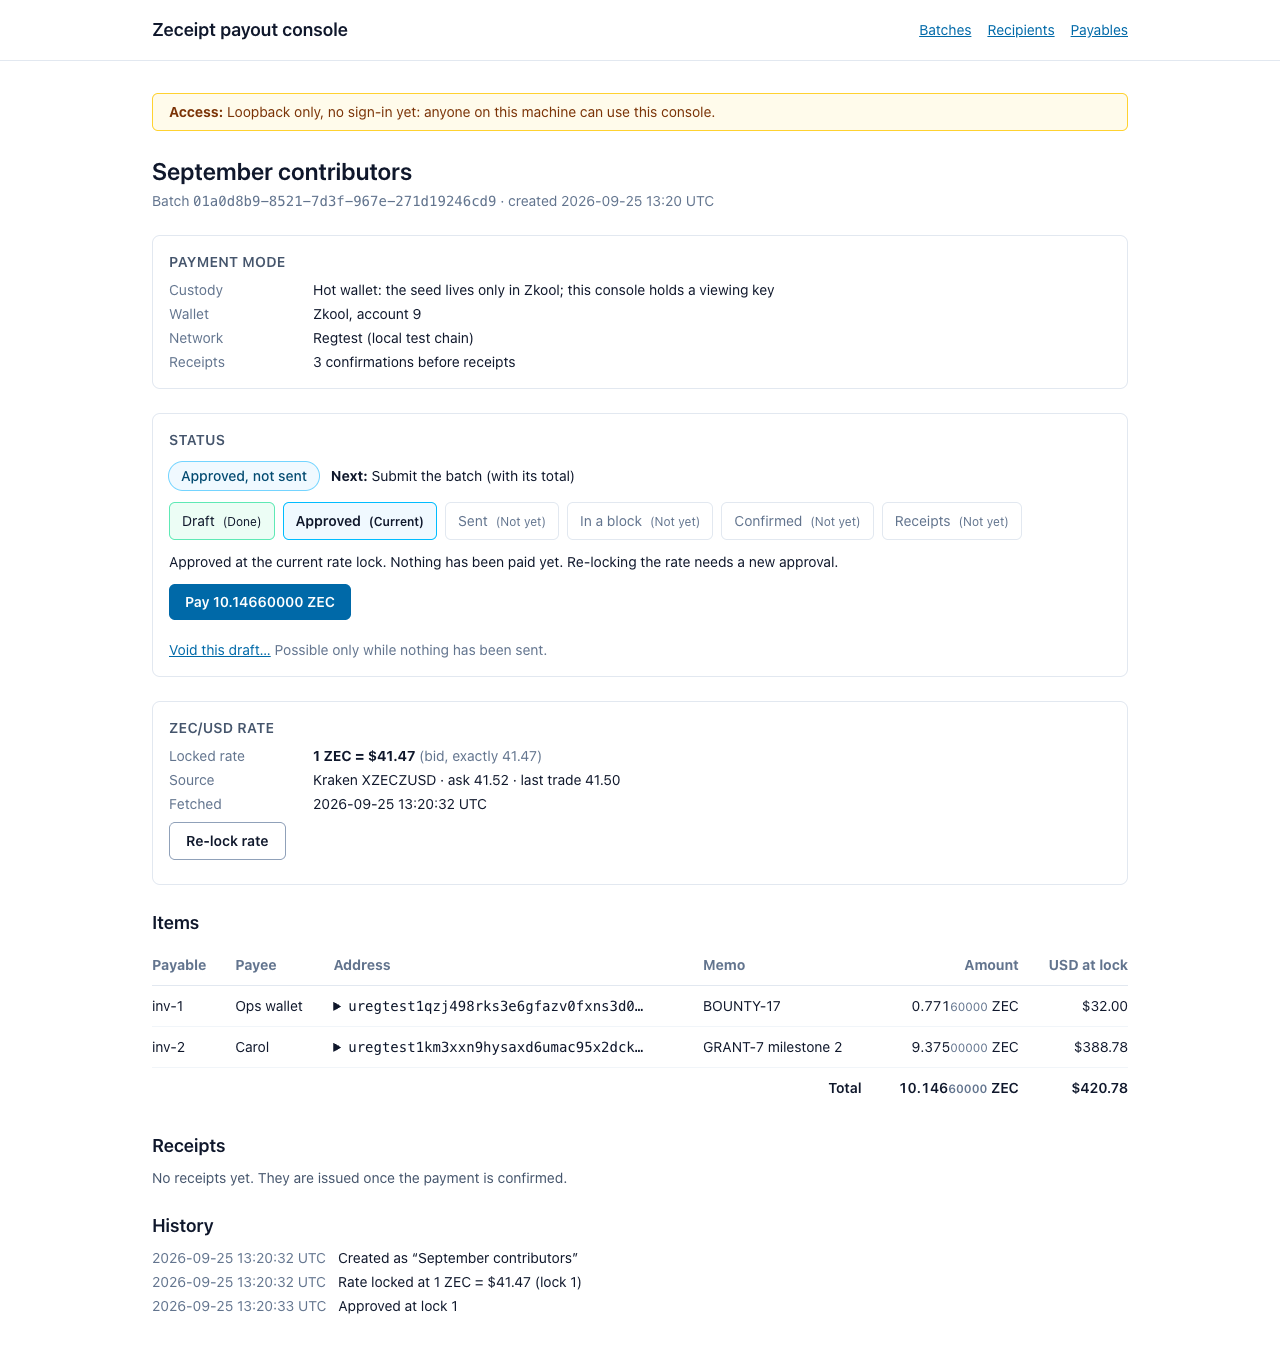
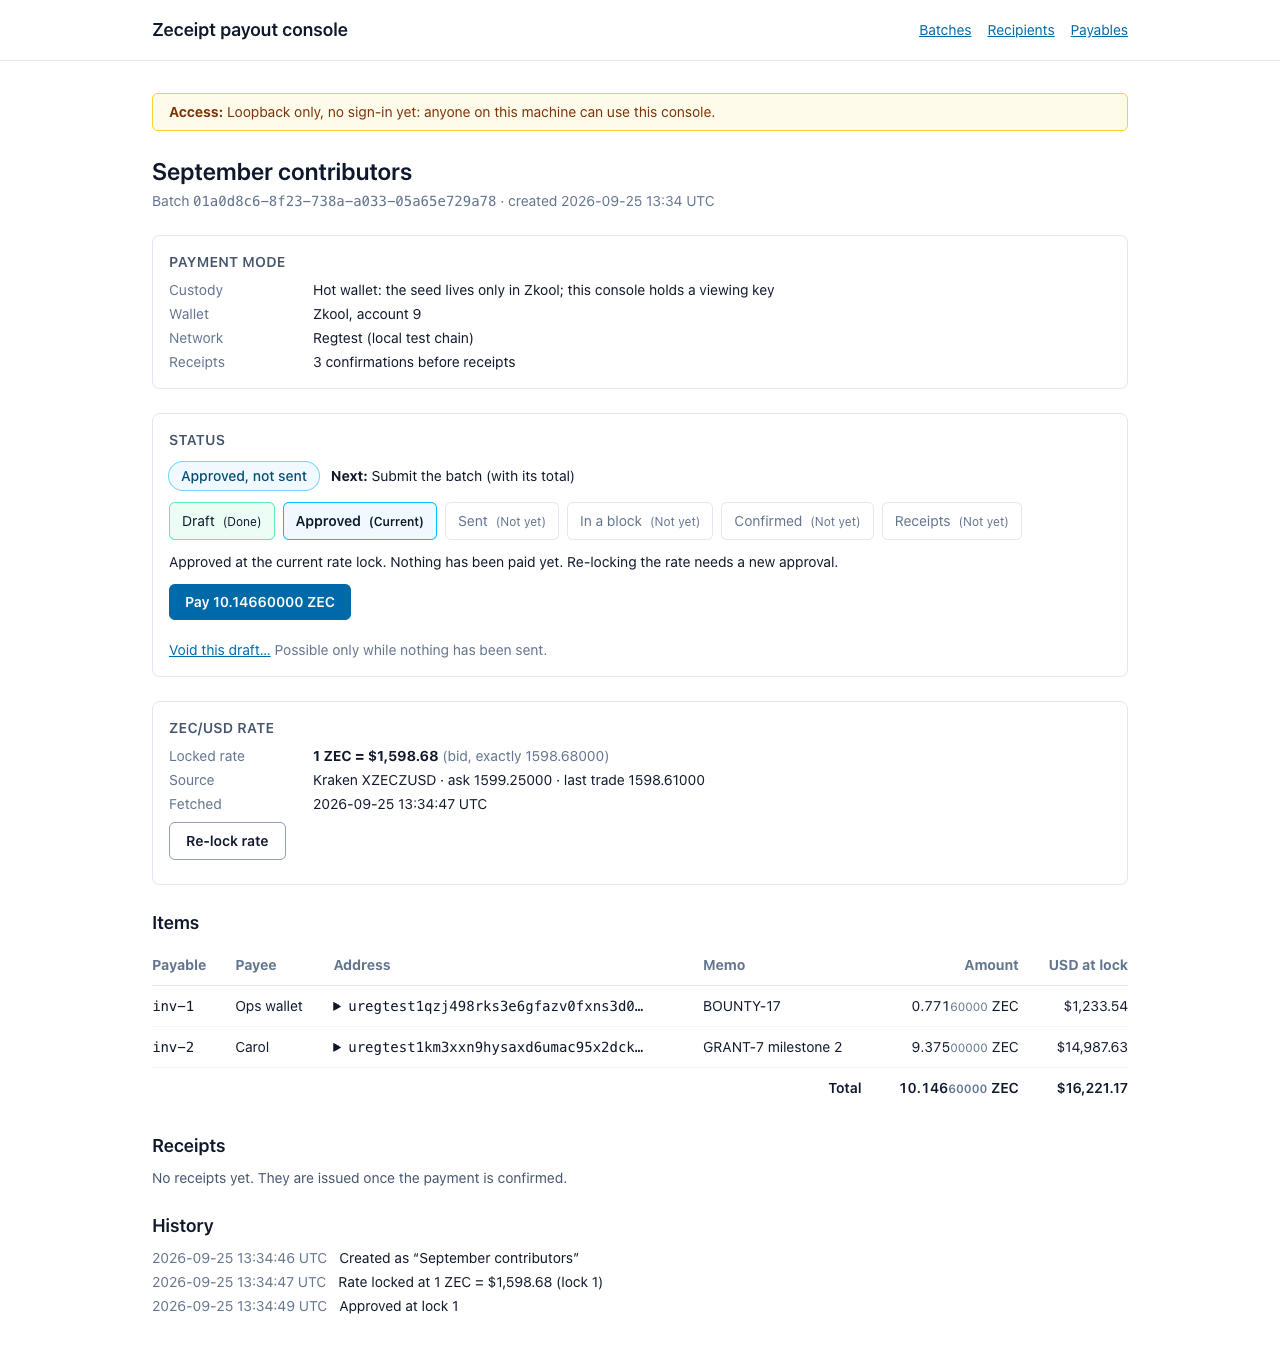
L2 round 2: English Chrome via CDP (-AppleLanguages), Kraken's live rate in the footage and every screenshot (no made-up rate shown as Kraken's); M1b closed (100/100)

diff --git a/apps/console/test/shots/demo-video.ts b/apps/console/test/shots/demo-video.ts
@@ -15,12 +15,12 @@
 
 import assert from "node:assert/strict";
 import { randomBytes } from "node:crypto";
-import http from "node:http";
 import { mkdirSync, mkdtempSync, readdirSync, renameSync, rmSync, statSync, writeFileSync } from "node:fs";
 import { tmpdir } from "node:os";
 import { join, resolve } from "node:path";
 import { APP, baseEnv, raw, start, waitHealthy, within } from "../helpers/app-server.ts";
 import { serveStatic } from "../helpers/static-site.ts";
+import { englishChrome } from "../helpers/english-chrome.ts";
 
 if (process.env.ZECEIPT_REGTEST !== "1") {
   console.log("demo footage needs the live regtest chain: set ZECEIPT_REGTEST=1 (docs/REGTEST_RUNBOOK.md)");
@@ -34,7 +34,6 @@ const ZAINO = process.env.ENDPOINT ?? "http://127.0.0.1:8137";
 const ZEBRA_RPC = process.env.ZEBRA_RPC ?? "http://127.0.0.1:18232/";
 const ISSUER = Number(process.env.ZKOOL_ISSUER ?? 9);
 const BIN = process.env.ZECEIPT_BIN ?? join(ROOT, "target/release/zeceipt");
-const RATE = "41.47"; // a fixed demo rate, labelled as such in shots.json
 const SIZE = { width: 1280, height: 800 };
 const HOLD = 1500; // ms after each visible change, so a viewer can read it
 const KEY = 3000; // ms on the beats the pitch narrates (approval, payment, VALID, INVALID)
@@ -75,18 +74,19 @@ for (const [i, [name, reference, usdCents]] of PEOPLE.entries()) {
 const WRAP = randomBytes(32);
 const dir = mkdtempSync(join(tmpdir(), "zeceipt-demo-"));
 const site = await serveStatic(join(ROOT, "packages/verify"));
-const ticker = http.createServer((_req, res) => void res.writeHead(200, { "content-type": "application/json" }).end(JSON.stringify({ error: [], result: { XZECZUSD: { a: ["41.52", "1", "1"], b: [RATE, "1", "1"], c: ["41.50", "0.1"] } } })));
-await new Promise<void>((r) => ticker.listen(0, "127.0.0.1", r));
 const s = await start({
   ...baseEnv(),
+  // The rate is Kraken's live ZEC/USD bid, the console's default source (review L2 round 1: a made-up rate must never
+  // be shown as Kraken's). Node reaches it through the environment's proxy; local services bypass it.
+  NODE_USE_ENV_PROXY: "1", NO_PROXY: "127.0.0.1,localhost",
   ZECEIPT_CUSTODY_MODE: "hot", ZECEIPT_ZKOOL_URL: ZKOOL, ZECEIPT_ZKOOL_ACCOUNT: String(ISSUER), ZECEIPT_DB_PATH: join(dir, "console.db"),
   ZECEIPT_ORG_ID: "demo", ZECEIPT_NETWORK: "regtest", ZECEIPT_CONFIRMATIONS: "2", ZECEIPT_AUTO_RECEIPTS_SECONDS: "0",
   ZECEIPT_WRAP_KEYS: `k1:${WRAP.toString("base64")}`, ZECEIPT_LIGHTWALLETD_URL: ZAINO, ZECEIPT_BIN: BIN,
   ZECEIPT_UFVK_FILE: join(ROOT, "fixtures/regtest-issuer-ufvk.txt"), ZECEIPT_ISSUER_KEY_FILE: join(ARTIFACT_DIR, "issuer.key"), ZECEIPT_ISSUER_KEY_ID: "2026-09",
-  ZECEIPT_RECEIPT_HOST: site.base, ZECEIPT_RATE_URL: `http://127.0.0.1:${(ticker.address() as { port: number }).port}/0/public/Ticker?pair=ZECUSD`,
+  ZECEIPT_RECEIPT_HOST: site.base,
 });
-const { chromium } = await import("playwright-core");
-const browser = await chromium.launch({ channel: "chrome", headless: true });
+const chrome = await englishChrome();
+const browser = chrome.browser;
 const shots: { segment: string; file: string; steps: { atMs: number; step: string }[] }[] = [];
 const secrets: string[] = [WRAP.toString("base64")];
 
@@ -125,6 +125,7 @@ try {
   }
 
   let batchId = "";
+  let lock = { rate: "", source: "", fetchedAt: "" };
   await segment("console", "1-console.webm", async (page, step) => {
     await page.goto(`${base}/recipients`);
     await page.getByText(PEOPLE[4][0]).first().waitFor();
@@ -140,6 +141,9 @@ try {
     await page.waitForURL(/\/batches\/[0-9a-f-]{36}$/);
     batchId = page.url().split("/").at(-1)!;
     await page.getByRole("button", { name: /^Approve paying/ }).waitFor();
+    lock = (JSON.parse((await raw(s.port, "GET", `/api/batches/${batchId}`, { host: self })).body) as { rateLock: { rate: string; source: string; fetchedAt: string } }).rateLock;
+    assert.equal(lock.source, "kraken");
+    assert.ok(await page.getByText(`Kraken XZECZUSD`).first().isVisible(), "the page names the source the quote came from");
     await step("the batch: converted at the locked rate (fixed for a batch made from payables); approval comes first");
     await page.getByRole("button", { name: /^Approve paying/ }).click();
     await page.getByRole("button", { name: /^Pay / }).waitFor();
@@ -209,7 +213,8 @@ try {
   const index = {
     version: 1,
     stamp,
-    note: `regtest only (a private, consensus-valid chain; PROOF §5). Rate: a fixed demo rate of ${RATE} USD per ZEC. No receipt link, OCK or key is in this file.`,
+    note: "regtest only (a private, consensus-valid chain; PROOF §5). The rate is Kraken's live ZEC/USD bid when the batch was made. No receipt link, OCK or key is in this file.",
+    rate: lock,
     batch: { recipients: recipients.length, txid },
     segments: shots,
   };
@@ -219,10 +224,9 @@ try {
   for (const f of readdirSync(OUT)) console.log(`${f}\t${statSync(join(OUT, f)).size} bytes`);
   console.log(`footage in ${OUT}`);
 } finally {
-  await browser.close();
+  await chrome.close();
   s.child.kill("SIGTERM");
   await within(s.exited, 10_000, "shutdown").catch(() => s.child.kill("SIGKILL"));
   rmSync(dir, { recursive: true, force: true });
   await site.close();
-  ticker.close();
 }

diff --git a/apps/console/test/shots/from-payables.ts b/apps/console/test/shots/from-payables.ts
@@ -1,16 +1,13 @@
 // Screenshot of the "batch from payables" chooser (slice H5b, PRD AC3), re-runnable. Run after `next build` from
 // apps/console: `node test/shots/from-payables.ts [out.png]`. It renders what a person checks by eye: free payables as
 // checkboxes left of their labels, one already in a batch left out, and an error under the title with the choices kept.
-import http from "node:http";
 import { mkdtempSync, rmSync } from "node:fs";
 import { tmpdir } from "node:os";
 import { join } from "node:path";
 import { baseEnv, raw, start, waitHealthy, within } from "../helpers/app-server.ts";
 const OUT = process.argv[2] ?? join(import.meta.dirname, "../../../../docs/product/screenshots/h5b-from-payables.png");
 const dir = mkdtempSync(join(tmpdir(), "h5b-shot-"));
-const ticker = http.createServer((_req, res) => void res.writeHead(200, { "content-type": "application/json" }).end(JSON.stringify({ error: [], result: { XZECZUSD: { a: ["1601.00", "1", "1"], b: ["1600.00", "1", "1"], c: ["1600.00", "0.1"] } } })));
-await new Promise<void>((r) => ticker.listen(0, "127.0.0.1", r));
-const env = { ...baseEnv(), ZECEIPT_CUSTODY_MODE: "external", ZECEIPT_DB_PATH: join(dir, "c.db"), ZECEIPT_ORG_ID: "shot", ZECEIPT_NETWORK: "regtest", ZECEIPT_WRAP_KEYS: `k1:${Buffer.alloc(32, 4).toString("base64")}`, ZECEIPT_LIGHTWALLETD_URL: "http://127.0.0.1:8137", ZECEIPT_BIN: "/opt/x", ZECEIPT_UFVK_FILE: "/etc/x", ZECEIPT_ISSUER_KEY_FILE: "/etc/y", ZECEIPT_ISSUER_KEY_ID: "k", ZECEIPT_RATE_URL: `http://127.0.0.1:${(ticker.address() as { port: number }).port}/0/public/Ticker?pair=ZECUSD` };
+const env = { ...baseEnv(), ZECEIPT_CUSTODY_MODE: "external", ZECEIPT_DB_PATH: join(dir, "c.db"), ZECEIPT_ORG_ID: "shot", ZECEIPT_NETWORK: "regtest", ZECEIPT_WRAP_KEYS: `k1:${Buffer.alloc(32, 4).toString("base64")}`, ZECEIPT_LIGHTWALLETD_URL: "http://127.0.0.1:8137", ZECEIPT_BIN: "/opt/x", ZECEIPT_UFVK_FILE: "/etc/x", ZECEIPT_ISSUER_KEY_FILE: "/etc/y", ZECEIPT_ISSUER_KEY_ID: "k", NODE_USE_ENV_PROXY: "1", NO_PROXY: "127.0.0.1,localhost" };
 const s = await start(env as Record<string, string>);
 const { chromium } = await import("playwright-core");
 const browser = await chromium.launch({ channel: "chrome" });
@@ -41,6 +38,5 @@ try {
   await browser.close();
   s.child.kill("SIGTERM");
   await within(s.exited, 10_000, "shutdown").catch(() => s.child.kill("SIGKILL"));
-  await new Promise((r) => ticker.close(r));
   rmSync(dir, { recursive: true, force: true });
 }

diff --git a/apps/console/test/shots/approve.ts b/apps/console/test/shots/approve.ts
@@ -1,8 +1,8 @@
 // Screenshots of approval before payment (slice I3, PRD AC4), re-runnable. Run after `next build` from apps/console:
 // `node test/shots/approve.ts [dir]`. Two shots of one batch page, as a person checks it by eye: locked and waiting
 // for approval (the button names the total and the rate; no Pay yet), then approved (Pay appears, the lifecycle
-// marks Approved). Hot custody against the fake Zkool and a fake ticker: nothing is paid.
-import http from "node:http";
+// marks Approved). Hot custody against the fake Zkool: nothing is paid. The rate is Kraken's live bid (review L2 round 1:
+// never a made-up rate shown as Kraken's), so the amounts differ between runs; run with the environment's proxy.
 import { mkdtempSync, rmSync } from "node:fs";
 import { tmpdir } from "node:os";
 import { join } from "node:path";
@@ -11,14 +11,12 @@ import { FakeZkool } from "../helpers/fake-zkool.ts";
 
 const OUT = process.argv[2] ?? join(import.meta.dirname, "../../../../docs/product/screenshots");
 const dir = mkdtempSync(join(tmpdir(), "i3-shot-"));
-const ticker = http.createServer((_req, res) => void res.writeHead(200, { "content-type": "application/json" }).end(JSON.stringify({ error: [], result: { XZECZUSD: { a: ["41.52", "1", "1"], b: ["41.47", "1", "1"], c: ["41.50", "0.1"] } } })));
-await new Promise<void>((r) => ticker.listen(0, "127.0.0.1", r));
 const fake = await new FakeZkool().start();
 const env = {
   ...baseEnv(), ZECEIPT_CUSTODY_MODE: "hot", ZECEIPT_ZKOOL_URL: fake.url, ZECEIPT_ZKOOL_ACCOUNT: "9", ZECEIPT_AUTO_RECEIPTS_SECONDS: "0",
   ZECEIPT_DB_PATH: join(dir, "c.db"), ZECEIPT_ORG_ID: "shot", ZECEIPT_NETWORK: "regtest", ZECEIPT_WRAP_KEYS: `k1:${Buffer.alloc(32, 4).toString("base64")}`,
   ZECEIPT_LIGHTWALLETD_URL: "http://127.0.0.1:8137", ZECEIPT_BIN: "/opt/x", ZECEIPT_UFVK_FILE: "/etc/x", ZECEIPT_ISSUER_KEY_FILE: "/etc/y", ZECEIPT_ISSUER_KEY_ID: "k",
-  ZECEIPT_RATE_URL: `http://127.0.0.1:${(ticker.address() as { port: number }).port}/0/public/Ticker?pair=ZECUSD`,
+  NODE_USE_ENV_PROXY: "1", NO_PROXY: "127.0.0.1,localhost",
 };
 const s = await start(env as Record<string, string>);
 const { chromium } = await import("playwright-core");
@@ -46,6 +44,5 @@ try {
   s.child.kill("SIGTERM");
   await within(s.exited, 10_000, "shutdown").catch(() => s.child.kill("SIGKILL"));
   await fake.stop();
-  ticker.close();
   rmSync(dir, { recursive: true, force: true });
 }

diff --git a/apps/console/test/helpers/english-chrome.ts b/apps/console/test/helpers/english-chrome.ts
@@ -1,0 +1,43 @@
+// Chrome with an English UI for footage and screenshots (slice L2, review round 1). On macOS, Chrome labels native
+// controls (the file input's "Choose File") in its own UI language, which follows the system's AppleLanguages: the
+// page's `locale`, `--lang` and LANG/LANGUAGE do not change it (all measured). `-AppleLanguages (en-US)` does, but
+// playwright refuses it as a launch argument ("(en-US)" reads as a page to open), so Chrome is started here with it and
+// a throwaway profile, and playwright attaches over CDP. recordVideo works over CDP (measured).
+import { spawn } from "node:child_process";
+import { mkdtempSync, rmSync } from "node:fs";
+import { tmpdir } from "node:os";
+import { join } from "node:path";
+import type { Browser } from "playwright-core";
+import { freePort } from "./app-server.ts";
+
+const CHROME = process.env.CHROME_PATH ?? "/Applications/Google Chrome.app/Contents/MacOS/Google Chrome";
+
+export async function englishChrome(): Promise<{ browser: Browser; close: () => Promise<void> }> {
+  const port = await freePort();
+  const profile = mkdtempSync(join(tmpdir(), "zeceipt-chrome-"));
+  const child = spawn(CHROME, ["--headless=new", `--remote-debugging-port=${port}`, `--user-data-dir=${profile}`, "--no-first-run", "--no-default-browser-check", "-AppleLanguages", "(en-US)"], { stdio: "ignore" });
+  const deadline = Date.now() + 20_000;
+  let ready = false;
+  while (!ready && Date.now() < deadline) {
+    try {
+      ready = (await fetch(`http://127.0.0.1:${port}/json/version`)).ok;
+    } catch {
+      await new Promise((r) => setTimeout(r, 200));
+    }
+  }
+  if (!ready) {
+    child.kill("SIGKILL");
+    throw new Error("Chrome did not open its DevTools port");
+  }
+  const { chromium } = await import("playwright-core");
+  const browser = await chromium.connectOverCDP(`http://127.0.0.1:${port}`);
+  return {
+    browser,
+    close: async () => {
+      await browser.close().catch(() => {});
+      child.kill("SIGTERM");
+      await new Promise((r) => setTimeout(r, 300));
+      rmSync(profile, { recursive: true, force: true });
+    },
+  };
+}
